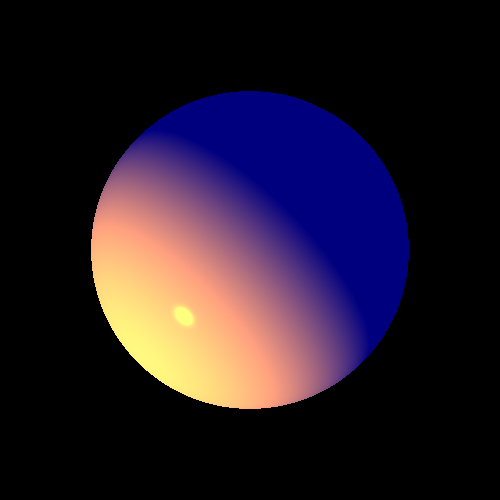
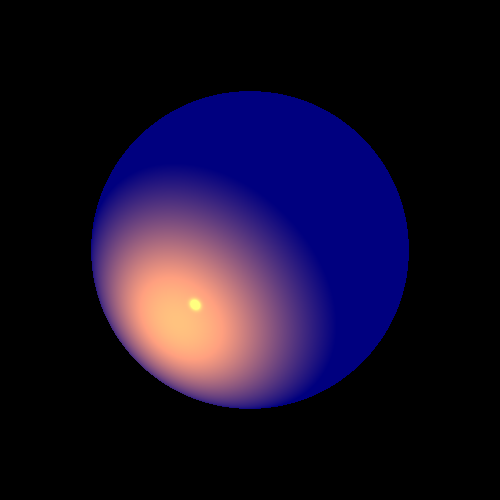
lights update

Changed region(s): [[0.18, 0.27, 0.75, 0.84]]

diff --git a/unittests/renderer/LightsTests.java b/unittests/renderer/LightsTests.java
@@ -194,4 +194,39 @@ public class LightsTests {
          .writeToImage();
    }
 
+
+   /** Produce a picture of a sphere lighted by a spotlight, PointLight and Directional light. */
+   @Test
+   public void sphereAllLights() {
+      Geometry       sphere10                  = new Sphere(SPHERE_RADIUS, sphereCenter)
+              .setEmission(new Color(255,255,0)).setMaterial(new Material().setKD(KD).setKS(KS).setNShininess(SHININESS));
+      scene1.geometries.add(sphere10);
+      scene1.lights.add(new SpotLight(new Color(0,0,255), sphereLightPosition, new Vector(1,1,-0.5))
+              .setKL(0.000000001).setKQ(0.0000000001));
+      scene1.lights.add(new DirectionalLight(new Color(255,0,0), new Vector(2,1,-1)));
+      scene1.lights.add(new PointLight(new Color(0,0,255), new Point(25,25,-10))
+              .setKL(0.000001).setKQ(0.00000001));
+
+      camera1.setImageWriter(new ImageWriter("allLightsSphere", 500, 500))
+              .build()
+              .renderImage()
+              .writeToImage();
+   }
+
+   /** Produce a picture of a triangles lighted by a spotlight, PointLight and Directional light. */
+   @Test
+   public void triangleAllLights() {
+      scene2.geometries.add(triangle1, triangle2);
+      scene2.lights.add(new SpotLight(trianglesLightColor, trianglesLightPosition, trianglesLightDirection)
+              .setKL(0.001).setKQ(0.0001));
+      scene2.lights.add(new DirectionalLight(trianglesLightColor, trianglesLightDirection));
+      scene2.lights.add(new PointLight(trianglesLightColor, trianglesLightPosition)
+              .setKL(0.001).setKQ(0.0002));
+
+      camera2.setImageWriter(new ImageWriter("allLightsTriangle", 500, 500))
+              .build()
+              .renderImage()
+              .writeToImage();
+   }
+
 }

diff --git a/src/lighting/SpotLight.java b/src/lighting/SpotLight.java
@@ -28,7 +28,8 @@ public class SpotLight extends PointLight {
 
     @Override
     public Color getIntensity(Point p) {
-        return super.getIntensity(p).scale(Math.max(0, direction.dotProduct(getL(p))));
+        return super.getIntensity(p).scale(Math.max(0, direction.dotProduct(getL(p))))
+                .add();
     }
 
     @Override
